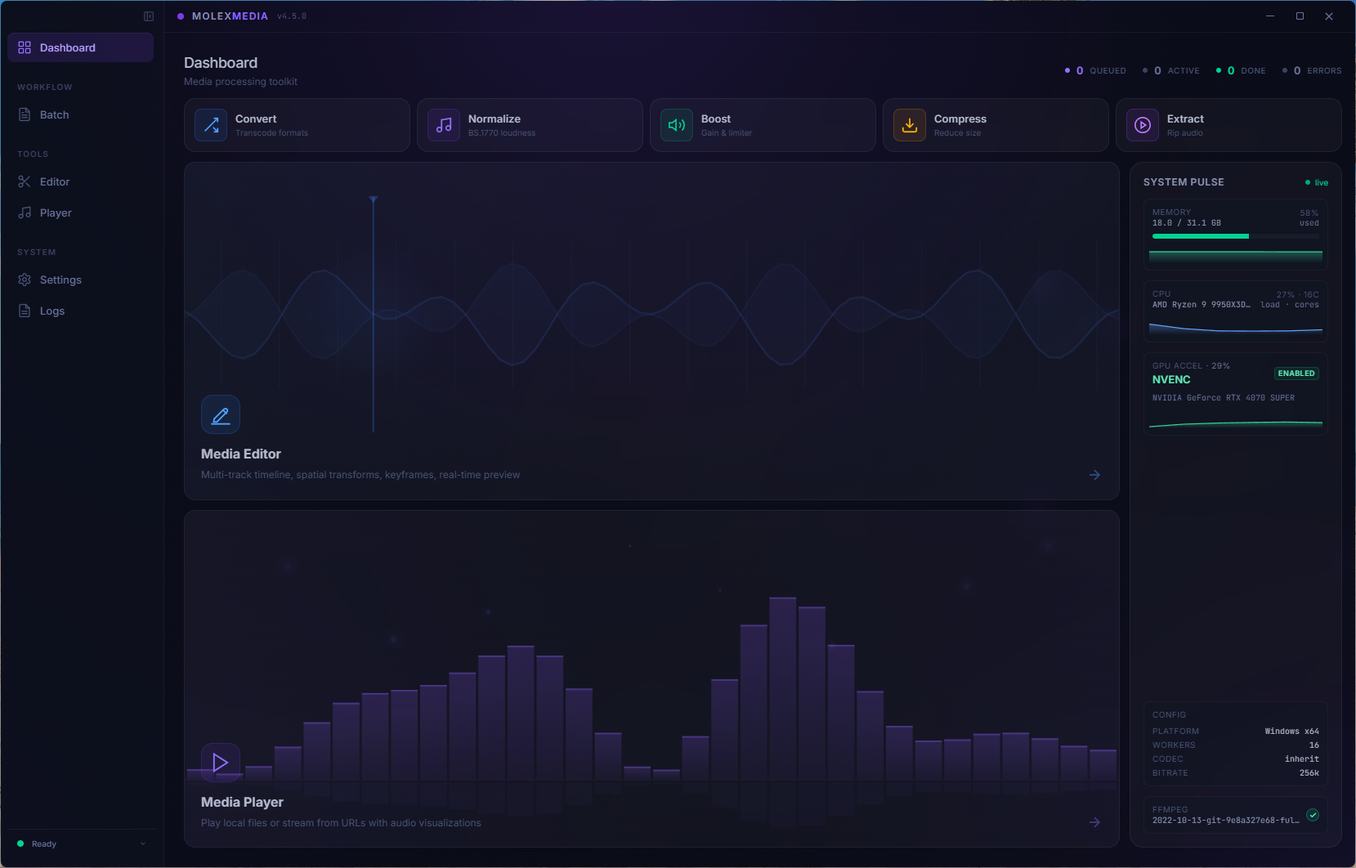
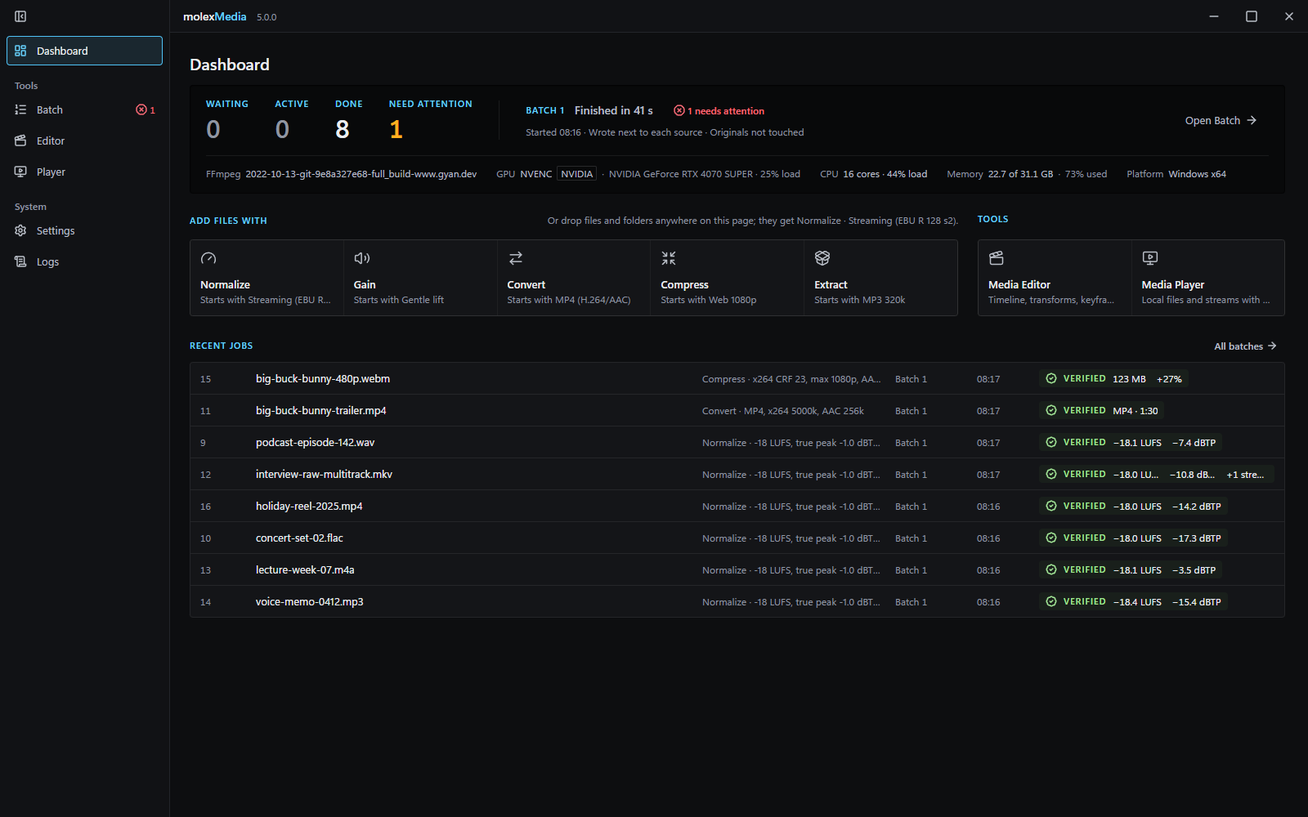
Rewrite the README for 5.0 with new captures
Every claim now comes from the code: the batch model with snapshotted
settings, Review, Run, and History, the standards-named loudness presets,
the Dashboard, Settings, Logs, first-run setup, the Editor's three modes,
and the Player's playback routes, links, full screen, pop-out, and Media
information. The FFmpeg section states how the pinned build is fetched,
verified, and self-tested, the surround-meter refusal, the Apple Silicon
hold, and how yt-dlp is installed from signed releases. Install lists the
packages the build produces; Development lists the real scripts.

The wordmarks resolve relative to the branch, so the light variant no
longer 404s. The captures are of the rebuilt app at 1600 x 1000 with Big
Buck Bunny (Blender Foundation, CC BY 3.0) for video, credited under them,
at 4 MB in place of 9.9 MB. CONTRIBUTING gets the right clone URL, Node 22,
and the Linux packages.

diff --git a/README.md b/README.md
@@ -1,14 +1,14 @@
 <div align="center">
 
 <picture>
-  <source media="(prefers-color-scheme: dark)" srcset="https://raw.githubusercontent.com/molexxxx/molex-media-electron/refs/heads/main/.github/assets/logo.svg">
-  <source media="(prefers-color-scheme: light)" srcset="https://raw.githubusercontent.com/molexxxx/molex-media-electron/refs/heads/main/.github/assets/logo-light.svg">
-  <img alt="molexMedia" src="https://raw.githubusercontent.com/molexxxx/molex-media-electron/refs/heads/main/.github/assets/logo.svg" width="500">
+  <source media="(prefers-color-scheme: dark)" srcset=".github/assets/logo.svg">
+  <source media="(prefers-color-scheme: light)" srcset=".github/assets/logo-light.svg">
+  <img alt="molexMedia" src=".github/assets/logo-light.svg" width="500">
 </picture>
 
 <br/>
 
-**Cross-platform media processing toolkit powered by FFmpeg**
+**A desktop toolkit for loudness, conversion, compression, extraction, editing, and playback, built on FFmpeg.**
 
 <a href="https://github.com/molexxxx/molex-media-electron/actions/workflows/ci.yml"><img src="https://raw.githubusercontent.com/molexxxx/molexxxx/main/.github/badges/molex-media-ci-molex.svg?v=22056855" alt="CI" /></a>
 <a href="https://github.com/molexxxx/molex-media-electron/actions/workflows/build.yml"><img src="https://raw.githubusercontent.com/molexxxx/molexxxx/main/.github/badges/molex-media-build-molex.svg?v=2e9321a1" alt="build" /></a>
@@ -18,188 +18,152 @@
 
 <br/>
 
-[Download](#install) · [Features](#features) · [Quick Start](#quick-start) · [Contributing](#contributing) · [Report a Bug](https://github.com/molexxxx/molex-media-electron/issues/new?template=bug_report.yml) · [Request a Feature](https://github.com/molexxxx/molex-media-electron/issues/new?template=feature_request.yml)
-
-<br/>
-
-<img alt="Dashboard" src=".github/assets/dashboard.png" width="700" />
-
-<br/>
-
-<table>
-  <tr>
-    <td align="center"><a href=".github/assets/sections/batch-processor.png"><img src=".github/assets/sections/batch-processor.png" width="160" alt="Batch Processor"/><br/><sub>Batch Processor</sub></a></td>
-    <td align="center"><a href=".github/assets/sections/media-editor-tools.png"><img src=".github/assets/sections/media-editor-tools.png" width="160" alt="Media Editor Tools"/><br/><sub>Media Editor Tools</sub></a></td>
-    <td align="center"><a href=".github/assets/sections/clip-video.png"><img src=".github/assets/sections/clip-video.png" width="160" alt="Clip Video"/><br/><sub>Clip Video</sub></a></td>
-    <td align="center"><a href=".github/assets/sections/timeline-editor.png"><img src=".github/assets/sections/timeline-editor.png" width="160" alt="Timeline Editor"/><br/><sub>Timeline Editor</sub></a></td>
-    <td align="center"><a href=".github/assets/sections/media-inspector.png"><img src=".github/assets/sections/media-inspector.png" width="160" alt="Media Inspector"/><br/><sub>Media Inspector</sub></a></td>
-  </tr>
-  <tr>
-    <td align="center"><a href=".github/assets/sections/media-player.png"><img src=".github/assets/sections/media-player.png" width="160" alt="Media Player"/><br/><sub>Media Player</sub></a></td>
-    <td align="center"><a href=".github/assets/sections/media-player-popout-v2.png"><img src=".github/assets/sections/media-player-popout-v2.png" width="160" alt="Player Popout"/><br/><sub>Player Popout</sub></a></td>
-    <td align="center"><a href=".github/assets/sections/log-viewer.png"><img src=".github/assets/sections/log-viewer.png" width="160" alt="Log Viewer"/><br/><sub>Log Viewer</sub></a></td>
-    <td align="center"><a href=".github/assets/sections/app-settings.png"><img src=".github/assets/sections/app-settings.png" width="160" alt="App Settings"/><br/><sub>App Settings</sub></a></td>
-  </tr>
-</table>
+[Download](#install) · [Features](#features) · [FFmpeg and yt-dlp](#ffmpeg-and-yt-dlp) · [Development](#development) · [Changelog](CHANGELOG.md) · [Website](https://media.molex.cloud) · [Report a bug](https://github.com/molexxxx/molex-media-electron/issues/new?template=bug_report.yml) · [Request a feature](https://github.com/molexxxx/molex-media-electron/issues/new?template=feature_request.yml)
 
 </div>
 
----
+<br/>
+
+<img alt="The Dashboard after a batch: counts of waiting, active, done, and jobs that need attention; the FFmpeg build, GPU, CPU, memory, and platform in use; buttons that add files with Normalize, Gain, Convert, Compress, or Extract; and the recent jobs with their verified loudness and true-peak stamps." src=".github/assets/dashboard.png">
+
+## What it does
+
+molexMedia runs media jobs in batches on Windows, macOS, and Linux. You queue files, give each an operation and a preset, review what every job will write, run the batch on a pool of workers, and keep a history with measured results. Beside the batch tools there is an editor with Trim, Timeline, and Inspect, and a player for files and links. Everything runs through one FFmpeg install that the app downloads and verifies, or one already on the computer.
 
 ## Features
 
-### Batch Processing
+### Batch
 
-- **Loudness Normalization** - ITU-R BS.1770-4 two-pass analysis with configurable Integrated Loudness (LUFS), True Peak (dBFS), and Loudness Range (LU); both passes run the same pre-filter chain so the measurement describes the signal being normalized, the output sample rate is pinned, and a fallback to dynamic mode is logged
-- **5 Normalization Presets** - Defaults, Dialogue, Music, Broadcast, and Cinema - each with tuned I/TP/LRA targets; Advanced mode exposes manual sliders for fine-grained control
-- **Volume Boost / Reduce** - Percentage-based amplifier applied to every audio stream, preserving each stream's own channel layout and sample rate; optional high-pass and a true-peak limiter that oversamples 2x so the dBTP ceiling is the ceiling actually delivered
-- **Format Conversion** - Configurable video codec, audio codec, bitrate, resolution, and framerate; stream-copy or full re-encode modes
-- **24 Conversion Presets** - General (MP4 H.264, MKV HEVC, WebM VP9, MP3 320k, FLAC), Web/Social (Discord 25 MB, YouTube, TikTok, Twitter/X, 720p Web), Devices (Apple, Android, Chromecast), Production (AV1, ProRes, FFV1, 4K Archive, MPEG-2), and Audio Only (WAV 16/24-bit, ALAC, M4A AAC, Opus, AC3 Surround) - with codec/container conflict detection
-- **Media Extraction** - Five extraction modes (audio, silent video, animated GIF, still frames, embedded subtitles) with **17 curated presets** covering common rip-and-repurpose jobs; audio → MP3/AAC/FLAC/WAV/OGG/Opus/M4A with bitrate/sample-rate/channel overrides; silent video → fast stream-copy or H.264 re-encode; GIF → two-pass palettegen/paletteuse with configurable width, fps, dither, loop; frames → PNG/JPG/WebP at interval, fps, even-spaced count, or a single midpoint thumbnail; subtitles → SRT/VTT/ASS sidecar files
-- **Video & Audio Compression** - CRF-based encoding with 5 encoders (H.264, H.265/HEVC, VP9, AV1 SVT, AV1 aom), 4 quality presets (lossless / high / medium / low, where lossless uses each encoder's own lossless switch rather than CRF 0) plus custom CRF slider, per-codec speed presets (veryslow → veryfast), and optional target-size bitrate limiting with two-pass mode; **12+ delivery presets** (Web 1080p/720p, Mobile, Discord 25 MB, YouTube Master, Archive Master, AV1 Streaming, Film Grain, Animation, Audio Lossless FLAC, Audio High AAC, etc.); audio-only files compress to AAC, Opus, or FLAC
-- **All Streams Preserved** - Convert and compress map streams explicitly, so multi-track sources keep every audio track instead of the single track FFmpeg's automatic selection would pick
-- **Per-file Operations** - Each file in the queue can have a different operation and options; mixed-operation batches process in a single run
-- **Concurrent Workers** - Configurable worker pool with mid-batch pause, resume, and cancellation
-- **Real-time Progress** - Per-task speed, ETA, and progress bar with desktop notifications on completion
-- **35+ Formats** - 21 video extensions (MP4, MKV, AVI, MOV, WebM, TS…) and 14 audio extensions (MP3, WAV, FLAC, OGG, M4A, AAC, Opus…)
-- **Subtitle & Metadata Preservation** - Optionally carry subtitle streams, tags, chapters, and metadata to output; subtitles are converted to the target container's own format (mov_text for MP4/MOV, copy for MKV/TS) and image-based subtitles are left out where only text can be stored
-- **Input Validation** - File existence checks, operation validation, boost range clamping, and zero-byte output detection with automatic cleanup
+Every file in the queue is a job with its own settings: an operation (Normalize, Gain, Convert, Compress, or Extract) and a preset, snapshotted when the job is added, so a later change to the defaults never touches a queued job. The inspector shows the selected jobs' settings in plain words, with a goal finder that answers common goals, such as podcast episodes or delivering to a European broadcaster, with one preset.
 
-### Media Editor
+<img alt="Batch, Queue tab: eight queued jobs with their operation, status, size, duration, and source streams. The inspector on the right shows the selected job's Convert settings: the preset's description, the goal finder, container, video codec, and bit rate." src=".github/assets/sections/batch.png">
 
-- **NLE Timeline** - Multi-track non-linear editor with V1/A1 tracks, source bin, drag-to-timeline, and frame-accurate editing
-- **7 Edit Types** - Insert, Overwrite, Replace, Ripple Overwrite, Place on Top, Append, and Fit to Fill
-- **4 Trim Types** - Roll, Ripple, Slip, and Slide with context-sensitive cursor near edit points
-- **Trim & Cut** - In/out point editing with two modes: fast (stream-copy, keyframe-aligned) or precise (re-encode, frame-accurate)
-- **Split Clip** - Split at playhead position, split at in/out selection boundaries, or clip-to-selection to trim a clip down to the selected region
-- **Merge / Concatenate** - Combine 2+ trimmed segments into a single file via FFmpeg concat demuxer (fast) or filter_complex (precise)
-- **Spatial Compositing** - Per-clip transforms with position (X/Y), scale (uniform lock), rotation, anchor point, and opacity; interactive canvas preview composites all video layers in real time
-- **Transform Gizmos** - Drag-to-move, corner/edge scale handles (Shift = uniform), rotation handle with 15° snap, and anchor adjustment - all with affine matrix hit-testing on rotated bounding boxes
-- **Keyframe Animation** - Add/remove keyframes per transform property with 4 easing functions (linear, ease-in, ease-out, ease-in-out), angle shortest-path interpolation, and binary search keyframe lookup
-- **8 Blend Modes** - Normal, Multiply, Screen, Overlay, Darken, Lighten, Add, and Difference - applied in both canvas preview and FFmpeg export
-- **Transform Inspector** - Numeric inputs for all spatial properties with drag-to-scrub, keyframe toggle buttons (◆), uniform scale lock, and blend mode dropdown
-- **Replace Audio Track (A2)** - Swap a video's audio with another file while preserving the video stream; inline trim handles on the A2 timeline track with per-track volume and mute controls; drag A2 between clips
-- **GIF Export** - Two-pass palette generation for high-quality GIFs with configurable loop, FPS (1-30), and width
-- **Remux** - Losslessly keep/drop individual streams, edit metadata tags, and set per-stream disposition flags (default, dub, original, comment, lyrics, karaoke, forced, hearing/visual impaired)
-- **Stream Inspector** - Detailed FFprobe viewer with container info, per-stream codec/resolution/channels/sample rate, and metadata editor
-- **Snap System** - Snap-to-edges during drag/trim operations with toggleable snap indicator
-- **Undo / Redo** - 50-level history stack for all clip, trim, split, transform, and keyframe operations
-- **Per-clip Controls** - Independent volume slider, mute toggle, speed adjustment, and spatial transform per clip
-- **Playback Controls** - Volume slider, speed selector (0.25x-2x), and keyboard shortcuts (Space, I, O, R, arrows, J/K/L transport)
-- **Drag-to-reorder** - Visual multi-clip track lane with proportional clip blocks, audio replacement badges, and drag-and-drop sequencing
-- **Video & Waveform Preview** - Canvas 2D composited preview for multi-layer spatial transforms; native `<video>` for single-clip; canvas waveform for audio-only
-- **FFmpeg Spatial Export** - Per-clip filter chains: scale → rotate → opacity → overlay positioning with animated keyframe expressions via `eval=frame`; blend mode support via FFmpeg blend filters
-- **7 Output Formats** - Video: MP4, MKV, WebM, AVI, MOV, TS, GIF - Audio: MP3, WAV, FLAC, OGG, M4A, AAC, Opus
+- Loudness presets are named after the documents they follow: EBU R 128, EBU R 128 s2 for streaming and s4 for film and series, ATSC A/85, the AES streaming recommendation, Apple Podcasts, and Spotify, plus Clear dialogue and Custom. Each preset states its source and tolerance. Loudness is measured with ebur128, the gain is planned from the measurement, and a true-peak limiter holds the ceiling.
+- Convert, Compress, and Extract presets are described by what they produce (container, encoder, bit rate, size), never by a platform name. Multi-track sources keep every audio and subtitle stream the container can hold, and the inspector says what a container cannot hold.
+- Review lists what each job will write before anything runs: the output file, the encoder, the streams kept, the planned FFmpeg command, and the files that would be replaced. Container limits are caught here, for example H.264 cannot be stored in WebM, so that output becomes MKV.
+- Run shows progress per job and per operation, time left, speed, and the measured result of every finished job. Each output is decoded once more and measured against its plan before it is called verified. Pause, resume, cancel, and retry work mid-batch, and a job whose output cannot be placed waits for a decision: keep it, keep it under a new name, discard it, or retry.
+- History keeps the newest 200 batches with the settings they used, the build they ran on, and how they ended, searchable by file or job number, with CSV and JSON reports and a rerun of returned jobs.
+- Output is a policy per batch: a folder or next to each source, a file-name template with fields, what to do when a name is taken (rename, skip, or overwrite), source subfolders, and one folder per preset. Replace originals is chosen per batch and never kept as a default; replaced files go to the recycle bin unless you choose to keep them beside the new ones.
+- Workers run jobs at once, automatically or at a fixed count. GPU encoding uses NVIDIA NVENC, Intel QSV, or AMD AMF with a session budget; only H.264 and HEVC have GPU encoders, lossless jobs stay on the CPU, and Review lists every job the GPU setting changes.
 
-### Media Player
+<img alt="Batch, Review tab: the summary of what the batch writes, a note that H.264 cannot be stored in WebM so that output becomes MKV, each job's output file and encoder, and the selected job's output plan with the streams kept, the encoder, and the planned FFmpeg command." src=".github/assets/sections/review.png">
 
-- **Local Playback** - Play audio and video files from your filesystem with full playlist management; seamless large file support (2 GiB+)
-- **URL Streaming** - Resolve and stream audio from YouTube videos, playlists, and direct audio URLs via yt-dlp (auto-downloaded) with auto-retry on expired CDN tokens
-- **8 Visualizations** - DMT, Space, Milkdrop, Plasma, Bars, Wave, Horizon, and Rain - all real-time canvas rendering via Web Audio API
-- **Beat Detection** - Per-frame analysis across sub-bass, bass, low-mid, mid, high-mid, and treble bands with beat-reactive visuals
-- **Audio Quality** - Best / Good / Low quality presets for YouTube stream selection
-- **Playlist Features** - Drag-to-reorder, shuffle, repeat (off / all / one), now-playing indicator, auto-scroll to active track, folder browser with system shortcuts, auto-skip on consecutive failures
-- **Transport Bar** - Custom seek bar with visual thumb and fill, play/pause, prev/next, shuffle, repeat, volume slider with mute toggle
-- **Popout Player** - Always-on-top window with compact transport, pin/unpin, 3 size presets, custom size memory, state transfer, and auto-resume playback
-- **URL Input & History** - Paste YouTube URLs or direct audio links; persisted history with title, track count, and date
-- **Cookie Caching** - Transparent browser cookie export for authenticated YouTube content with auto-retry on auth failures
+<img alt="Batch, Run tab during a batch: six jobs verified with their measured loudness, two encoding with progress, time left, and speed; on the right, progress by operation, the jobs running now, and the workers in use." src=".github/assets/sections/run.png">
 
-### App & UI
+### Dashboard
 
-- **Zero Setup** - FFmpeg and yt-dlp are downloaded automatically on first launch
-- **Setup Wizard** - First-run flow: Welcome → Downloading → Complete → Error, with retry, progress bar, and manual-install fallback
-- **Dashboard** - Quick stats (ready / processing / completed / errors), 5 workflow launchers, tool cards with animated canvas backgrounds, system info, and recent activity feed
-- **System Tray** - Icon with context menu (Show, Pop Out Player, Player, Editor, Processor, Logs, Quit), live batch progress in tooltip, and minimize-to-tray behavior
-- **Auto-updater** - Check / download / install from GitHub Releases with progress forwarding and persistent update status from startup
-- **Live Processing Panel** - Sidebar-embedded task list with progress bars, pause/cancel controls
-- **Log Viewer** - Filterable by level (info / warn / error / debug / success / ffmpeg), free-text search, auto-scroll, copy single entry or all filtered logs, open log directory
-- **Drag-and-drop Everywhere** - Drop files onto batch queue, editor, player, or processing view
+The home view is a front panel: the counts of waiting, active, done, and jobs that need attention, the last batch, the machine's readiness (the FFmpeg build, GPU, CPU, memory, and platform), keys that add files with each operation starting from its default preset, the Editor and Player, and the latest settled jobs with their measured stamps. Files and folders dropped anywhere on it are queued with the default preset.
 
----
+### Settings
+
+- Batch: where batches write and what happens to files they meet, workers and GPU encoding, what applies while a batch runs (full or sampled video verification, process priority, keep awake, notifications), history retention, recent folders, and a reset.
+- Presets: your presets by operation with rename and delete, the pinned keys Alt+1 to Alt+9, and the built-in presets, read-only, each loudness preset with its standard and sources.
+- FFmpeg: the build in use with its version and source, the self-test result and when it ran, Re-run self-test, and Install the tested build when the build in use is not the one this version ships with.
+- Application: app updates from GitHub Releases, the yt-dlp section (the version in use, last check, automatic updates, and a switch to use the yt-dlp found on this computer), what the close button does, how the window opens, interface size, spoken batch progress, and the browser YouTube cookies come from.
+
+<img alt="Settings, Presets tab: the user's presets, the pinned keys Alt+1 to Alt+9, and the built-in Normalize presets listed by goal, each answered by one preset such as Streaming (EBU R 128 s2) or ATSC A/85." src=".github/assets/sections/settings-presets.png">
+
+### Logs
+
+Every line the main process and its jobs wrote, as one list: a level filter, a sources menu, search, and Follow new lines narrow and track it; Copy lines, Open log folder, and Clear act on it. Show log from a job in Batch narrows the view to that job or batch, a job's complete FFmpeg output opens beside its lines, and a selected line opens in full in the details pane.
+
+<img alt="Logs: 1,092 lines from a batch with the level filter, sources menu, search, and Follow new lines; each line shows its time, level, source, and FFmpeg's own output under the job number." src=".github/assets/sections/logs.png">
+
+### First run
+
+Setup is one screen. It says what molexMedia needs and why, downloads the FFmpeg build this version is pinned to with the percent, size, and speed shown, checks the download against the SHA-256 the app ships with, and self-tests it. Or choose a folder with an FFmpeg already on this computer, which is self-tested the same way. yt-dlp downloads the first time you open a link in the Player.
+
+<img alt="First-run setup: what molexMedia needs, FFmpeg (required, downloaded from the pinned build, checked against its SHA-256, then self-tested) and yt-dlp (downloaded when you first open a link), with Download FFmpeg and Use an FFmpeg already on this computer." src=".github/assets/sections/setup.png">
+
+### Editor
+
+- Trim: a preview with frame steps, in and out points with lit readouts, a filmstrip trim bar, and an export panel with the format and quality. Exports re-encode at a chosen quality and cut on the exact frame, or copy the streams for the fastest cut at the nearest keyframe, and a trimmed range can be added to the timeline.
+- Timeline: a source bin, video and audio tracks, insert, overwrite, append, and on-top edits, select, trim, and split tools, snapping, zoom, and undo. The clip panel sets a clip's sound (mute, volume, pan) and its place in the picture (position, scale, rotation) with keyframes. Export chooses the range, format, size, quality, and audio bit rate.
+- Inspect: the file's ffprobe report as plain name and value rows, the file, every stream, the tags, and the keyframes, each value plain first and technical second, with Copy. Leave streams out or edit the tags, then Save a copy, which remuxes losslessly to a new file.
+
+<img alt="Editor, Trim: a frame of Big Buck Bunny in the preview, the in, out, and length readouts, the transport, the filmstrip with the selected range, and the export panel with the format and quality." src=".github/assets/sections/editor-trim.png">
+
+<img alt="Editor, Timeline: the sources, the preview, and two video clips on track V1 with the playhead in the first. The clip panel shows the selected clip's sound (mute, volume, pan) and picture (position, scale, rotation) with keyframe controls." src=".github/assets/sections/editor-timeline.png">
+
+<img alt="Editor, Inspect: the ffprobe report of an MP4 as plain rows: container, length, size, and bit rate, then the H.264 video stream and the 5.1 AAC audio stream, each with a Keep in the copy checkbox, and Save a copy at the foot." src=".github/assets/sections/editor-inspect.png">
+
+### Player
+
+- Plays files and folders, and links through yt-dlp from YouTube and many other sites, with a playlist, shuffle, repeat, and recent links.
+- Shows the video or a visualization (DMT, Space, Milkdrop, Plasma, Bars, Waveform, Horizon, or Rain) drawn from the playing audio.
+- Plays each local file the cheapest way that works: directly when the browser engine decodes it, repackaged when only the container is in the way, or decoded by FFmpeg while it plays, with a hardware encoder when one is available. Links carry a sound quality and a picture quality, and a stream that cannot be played directly is downloaded first.
+- Audio track and subtitle choice, with text subtitles shown over the picture or the visualization.
+- Real full screen: the window goes full screen, the shell hides, and the controls fade with the pointer.
+- Pop out: a small window that stays on top, with three sizes and a remembered size, and Back to the app.
+- Media information: how the file is being played, then the file and each stream as a plain line with the technical values folded under it.
+
+<img alt="Player: Big Buck Bunny playing as video with the playlist of six tracks beside it, the Video or Visualization switch, the transport, and the track's container, codec, size, and audio layout." src=".github/assets/sections/player-video.png">
+
+<img alt="Player: the DMT visualization drawn from the playing audio, filling the stage." src=".github/assets/sections/player-visualization.png">
+
+<p align="center"><img alt="The pop-out player: a small window with the video, the seek bar, the transport, and the keep-on-top, window size, and back-to-app controls in its caption bar." src=".github/assets/sections/player-popout.png" width="420"></p>
+
+The video in these screenshots is [Big Buck Bunny](https://peach.blender.org/) by the Blender Foundation, licensed [CC BY 3.0](https://creativecommons.org/licenses/by/3.0/).
+
+## FFmpeg and yt-dlp
+
+molexMedia does not bundle FFmpeg. On first run it downloads the build pinned in [`src/main/ffmpeg/pinned-builds.json`](src/main/ffmpeg/pinned-builds.json), which records each platform's download by URL, size, and SHA-256, verifies the digest while the archive streams to disk, extracts it into the app's own data folder, and runs a self-test (the encode chains, the loudness meter on dual mono and surround input, libsoxr, and the encoders) before any job runs. You can instead point the app at an FFmpeg already on this computer, which is checked and self-tested the same way. A build that fails the surround metering test cannot run loudness jobs on more than two channels; the app says so instead of writing a wrong level.
+
+The Apple Silicon download is held at FFmpeg 7.1.1: the loudness meter in the newer macOS arm64 builds reads inputs with more than two channels 16 to 33 LU too loud, which would turn 5.1 sources far down, and 7.1.1 measures them correctly. A workflow checks newer builds' surround metering on Apple Silicon so the hold can be lifted once one passes.
+
+yt-dlp is downloaded the first time you open a link, from the yt-dlp project's own releases. The release's checksum list must carry a valid signature by the yt-dlp signing key, and the binary must match its checksum, or nothing is installed. The app checks for updates and replaces the binary only while nothing is running it. A yt-dlp found on this computer can be used instead and is left alone.
 
 ## Install
 
-Grab the latest release for your platform:
+Download the installer for your platform from the [latest release](https://github.com/molexxxx/molex-media-electron/releases/latest).
 
-| Platform | Download | Format |
-|----------|----------|--------|
-| **Windows** | [Latest Release](https://github.com/molexxxx/molex-media-electron/releases/latest) | `.exe` (NSIS installer) |
-| **macOS** | [Latest Release](https://github.com/molexxxx/molex-media-electron/releases/latest) | `.dmg` (Intel & Apple Silicon) |
-| **Linux** | [Latest Release](https://github.com/molexxxx/molex-media-electron/releases/latest) | `.AppImage` |
+| Platform | Package |
+|----------|---------|
+| Windows (x64) | `molexMedia-<version>-Windows-Setup.exe`, an installer that lets you choose the folder |
+| macOS (Intel and Apple Silicon) | `molexMedia-<version>-macOS-Installer.dmg`, one universal build |
+| Linux (x64) | `molexMedia-<version>-Linux-Installer.deb` or `.rpm` |
 
-> FFmpeg and yt-dlp are downloaded automatically on first launch - no manual setup required.
+The app checks GitHub Releases for updates and installs them itself; the switch is in Settings, Application, and an update waits while a batch runs.
 
----
+Requirements: a 64-bit Windows, macOS, or Linux system, and a network connection on first run for the FFmpeg download (55 to 194 MB depending on the platform) unless you point the app at an FFmpeg already installed. GPU encoding is optional and uses NVIDIA NVENC, Intel QSV, or AMD AMF when one is present.
 
-## Quick Start
+## Development
 
 ```bash
-# Clone & install
 git clone https://github.com/molexxxx/molex-media-electron.git
 cd molex-media-electron
 npm install
-
-# Development (hot-reload)
 npm run dev
-
-# Run tests
-npm test
-
-# Build for production
-npm run build
-
-# Package for distribution
-npm run package          # Current platform
-npm run package:win      # Windows
-npm run package:mac      # macOS
-npm run package:linux    # Linux
 ```
 
----
+CI runs on Node 22. `npm run dev` starts the app with hot reload against your real user data folder.
 
-## Tech Stack
+```bash
+npx tsc -b --noEmit       # type check main, preload, and renderer
+npm test                  # unit tests (vitest)
+npm run test:coverage     # unit tests with the coverage thresholds CI enforces
+npm run test:golden       # the audio pipeline measured on a real FFmpeg build
+```
 
-- **Electron** - Cross-platform desktop framework
-- **React 19** - UI with functional components and hooks
-- **TypeScript** - Full type safety across main and renderer
-- **Vite** - Build tooling via electron-vite
-- **Tailwind CSS** - Utility-first styling
-- **Zustand** - Lightweight state management
-- **Framer Motion** - Animations and transitions
-- **Lucide React** - Icon library
-- **react-dropzone** - Drag-and-drop file handling
-- **electron-store** - Persistent configuration
-- **electron-builder** - Packaging & distribution
-- **Vitest** - Unit and integration testing
-- **yt-dlp** - YouTube audio streaming and playlist resolution
-- **Web Audio API** - Real-time audio analysis and visualization
+The golden suite finds `ffmpeg` and `ffprobe` in `MOLEX_FFMPEG_DIR` or on `PATH`, and CI runs it on several FFmpeg builds whenever the pipeline changes, weekly, and before every release.
 
----
+```bash
+npm run package           # installer for the current platform
+npm run package:win       # Windows
+npm run package:mac       # macOS
+npm run package:linux     # Linux
+```
 
-## Feedback & Issues
+Releases are built by the Release workflow when a `v*.*.*` tag is pushed, after the unit tests and the golden suite pass, with release notes generated from the commits.
 
-Found a bug or have an idea? We use GitHub Issue templates to keep things organized:
+Layout: `src/main` is the main process (the FFmpeg pipeline, the job engine, yt-dlp, the updater, and the tray), `src/preload` the bridge, `src/renderer` the React UI, and `src/shared` the job model, presets, and IPC contract they share. Tests live in `tests/main`, `tests/renderer`, and `tests/golden`. `website/` and `website-api/` are the project website and are separate from the app.
 
-- [**Report a Bug**](https://github.com/molexxxx/molex-media-electron/issues/new?template=bug_report.yml) - Something isn't working as expected
-- [**Request a Feature**](https://github.com/molexxxx/molex-media-electron/issues/new?template=feature_request.yml) - Suggest a new feature or enhancement
-- [**Browse Open Issues**](https://github.com/molexxxx/molex-media-electron/issues) - See what's already been reported or upvote existing requests
-
-Please search existing issues before opening a new one to avoid duplicates.
-
----
+Built with Electron, electron-vite, React, TypeScript, Tailwind CSS, zustand, electron-store, electron-updater, electron-builder, youtube-dl-exec, and Vitest with Testing Library.
 
 ## Contributing
 
-Contributions are welcome! See [CONTRIBUTING.md](CONTRIBUTING.md) for guidelines on branch naming, commit conventions, and the development workflow.
-
----
+Bug reports and feature requests use the issue templates linked at the top. See [CONTRIBUTING.md](CONTRIBUTING.md) for branch naming, commit conventions, and the pull request flow.
 
 ## License
 
-[MIT](LICENSE) - build cool things with it.
-
----
-
-<div align="center">
-<sub>Built with Electron · React · Tailwind · Framer Motion · FFmpeg</sub>
-</div>
+[MIT](LICENSE).

diff --git a/CONTRIBUTING.md b/CONTRIBUTING.md
@@ -4,14 +4,14 @@
 
 ### Prerequisites
 
-- **Node.js** 20+
+- **Node.js** 22
 - **npm** 10+
 - **Git**
 
 ### Setup
 
 ```bash
-git clone https://github.com/molex/molex-media-electron.git
+git clone https://github.com/molexxxx/molex-media-electron.git
 cd molex-media-electron
 npm install
 npm run dev
@@ -80,7 +80,7 @@ npm run build          # Compile TypeScript + Vite
 npm run package        # Build for current platform
 npm run package:win    # Windows (.exe)
 npm run package:mac    # macOS (.dmg)
-npm run package:linux  # Linux (.AppImage)
+npm run package:linux  # Linux (.deb and .rpm)
 ```
 
 ## Code Style
@@ -92,12 +92,12 @@ npm run package:linux  # Linux (.AppImage)
 
 ## Reporting Bugs
 
-Use the [Bug Report template](https://github.com/molex/molex-media-electron/issues/new?template=bug_report.yml). Include:
+Use the [Bug Report template](https://github.com/molexxxx/molex-media-electron/issues/new?template=bug_report.yml). Include:
 
 - OS and version
 - App version
 - Steps to reproduce
-- Log output (from the Log Viewer)
+- Log output (Copy lines in Logs)
 
 ## License
 
